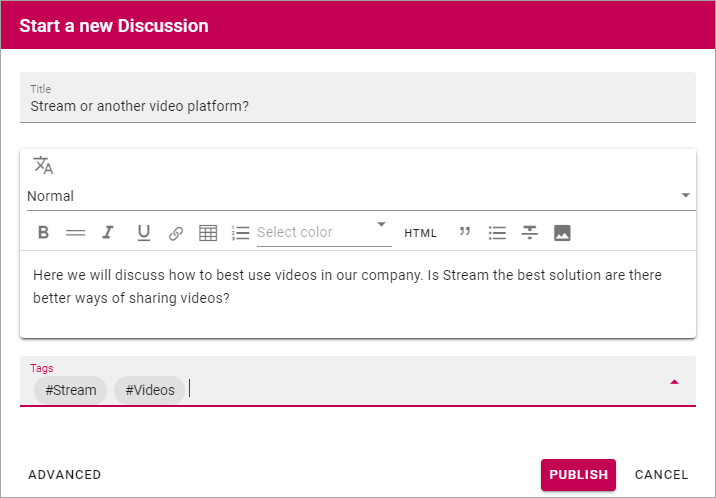
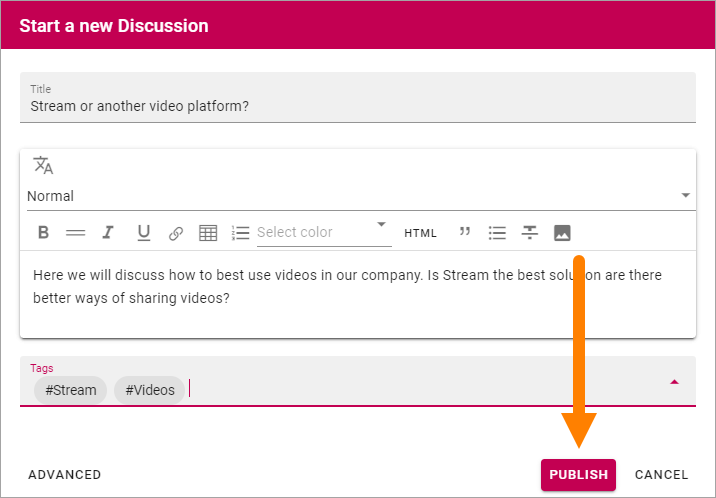
Minor edits

Changed region(s): [[0.7682, 0.512, 0.8296, 0.9036]]

diff --git a/using-communities/discussions/like-share-bestreply/index.rst b/using-communities/discussions/like-share-bestreply/index.rst
@@ -5,7 +5,7 @@ You can like and share a discussion and like comments. If you are the one that s
 
 Like a discussion or a comment
 **********************************
-The list "Popular" for discussions sort the list of discussion on likes, so the most liked discussion will be at the top.
+The list "Popular" for discussions sorts the list of discussion on likes, so the most liked discussion will be at the top.
 
 To like a discussion, just click "LIKE".
 
@@ -17,7 +17,7 @@ The Like icon now changes and you can use it to unlike the discussion:
 
 You can also like a comment:
 
-.. image:: discussion-like-3.png
+.. image:: discussion-like-3b.png
 
 You can change your mind about a comment you have liked, and unlike it.
 
@@ -25,7 +25,7 @@ You can change your mind about a comment you have liked, and unlike it.
 
 Share a discussion
 ****************************
-To share an discussion with a colleague, do the following:
+To share a discussion with a colleague, do the following:
 
 1. Click "Share".
 
@@ -45,4 +45,4 @@ That a comment is tagged as best reply is shown this way:
 
 You can click it to untag the comment for best reply, to tag some other comment.
 
-Best Reply can be a very important action if activity points and badges are activiated, see: :doc:`Setting up a Community </using-communities/setting/index>`
+Best Reply can be a very important action if activity points and badges are activiated, see: :doc:`Setting up a Community </using-communities/settings/index>`

diff --git a/using-communities/discussions/start-discussion/index.rst b/using-communities/discussions/start-discussion/index.rst
@@ -5,14 +5,14 @@ A Community can be set up several ways. In the default setup any collegue can st
 
 1. Click "START A DISCUSSION".
 
-.. image:: start-discussion.png
+.. image:: start-discussion-new.png
 
 2. Add the following about the discussion:
 
 .. image:: start-discussion-settings.png
 
-+ **Title**: Add a Title (name) for the discussion here.
-+ **(Text field)**: Use the text field to describe what will be discussed here. Note that you can use som formatting nad may even be able to add links and images in the description.
++ **Title**: Add a Title (name) for the discussion.
++ **(Text field)**: Use the text field to describe what will be discussed here. Note that you can use some formatting and may even be able to add links and images in the description.
 + **Tags**: You can tag the discussion with existing tags, or create new tags, for example for subscription. Note that tags are "global". A new tag will be available in all Knowledge articles and Discussions in the community.
 
 3. Click "PUBLISH" to create the discussion.

diff --git a/using-communities/discussions/participate-in-discussions/index.rst b/using-communities/discussions/participate-in-discussions/index.rst
@@ -8,11 +8,11 @@ You participate in a discussion by adding comments.
 
 .. image:: discussion-comment-1.png
 
-Note he the simple formatting options.
+Note the formatting options.
 
 You can always edit your own comments, like this:
 
-3. Click the pen and select edit.
+3. Click the pen and select "Edit".
 
 .. image:: discussion-comment-2.png
 
@@ -22,19 +22,19 @@ You can always edit your own comments, like this:
 
 Comment another comment
 *************************
-You can even comment any comment, this way:
+You can also comment any comment, this way:
 
 1. click "Reply".
 
 .. image:: discusson-comment-4.png
 
-2. Type you reply and click "POST".
+2. Type your reply and click "POST".
 
 .. image:: discussion-comment-5.png
 
 You can add a reply for the reply and continue that way.
 
-You can edit you your own replies the samse way as with comments, see above.
+You can edit your own replies the samse way as with comments, see above.
 
 Using mentions
 ***************
